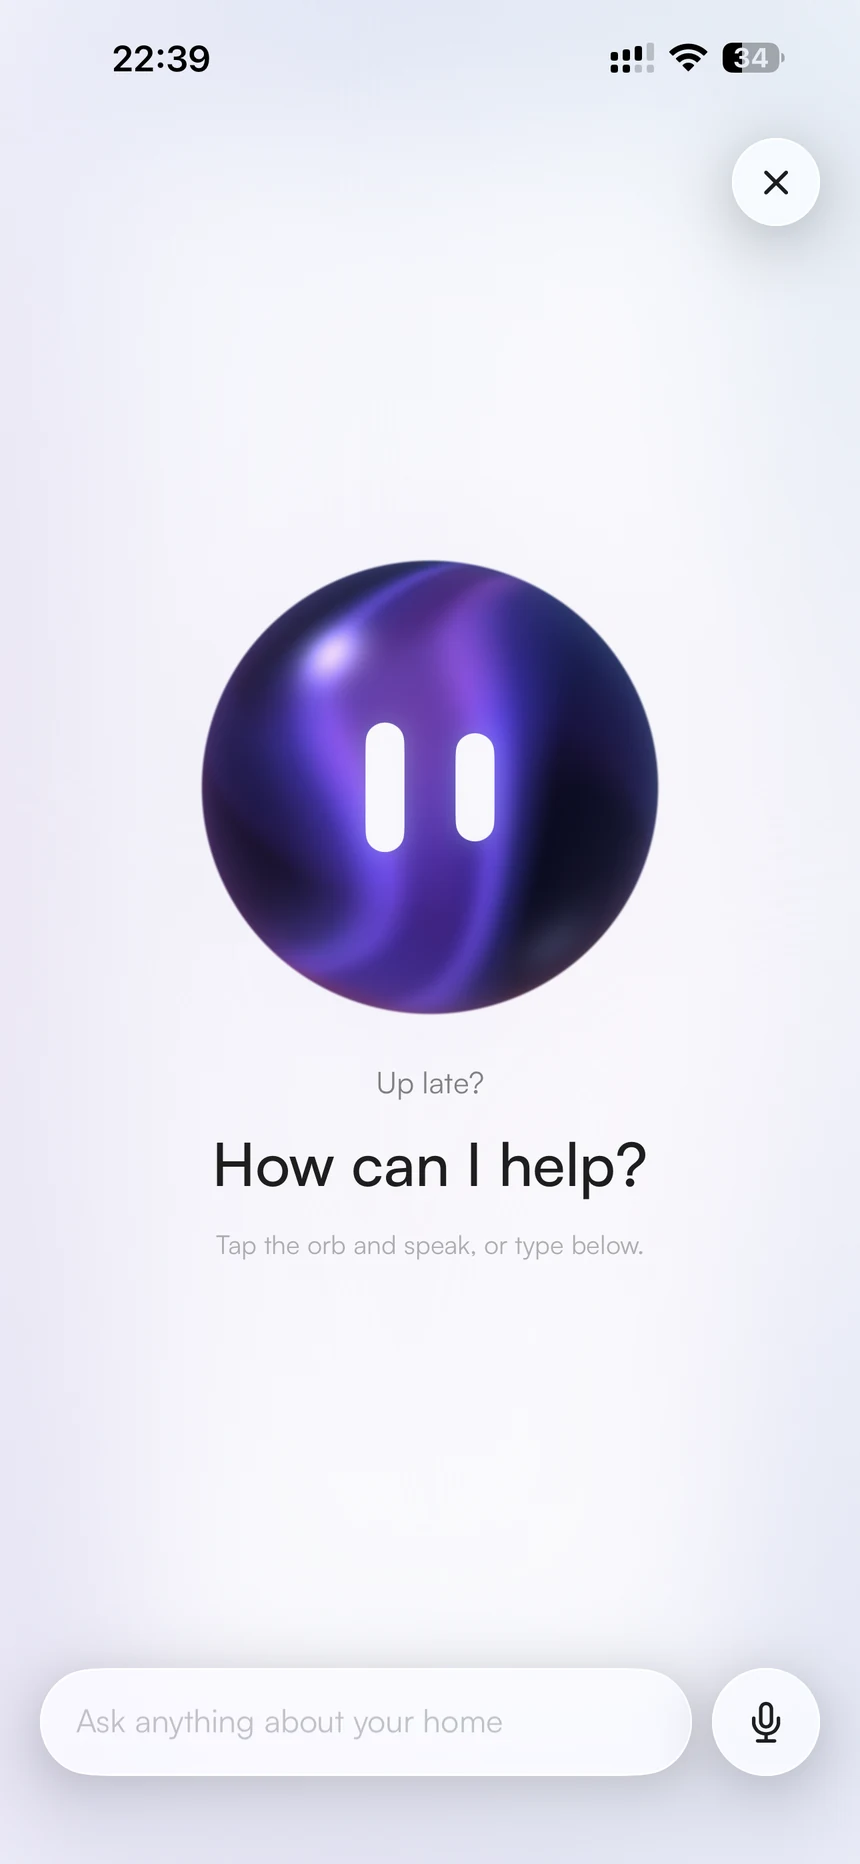
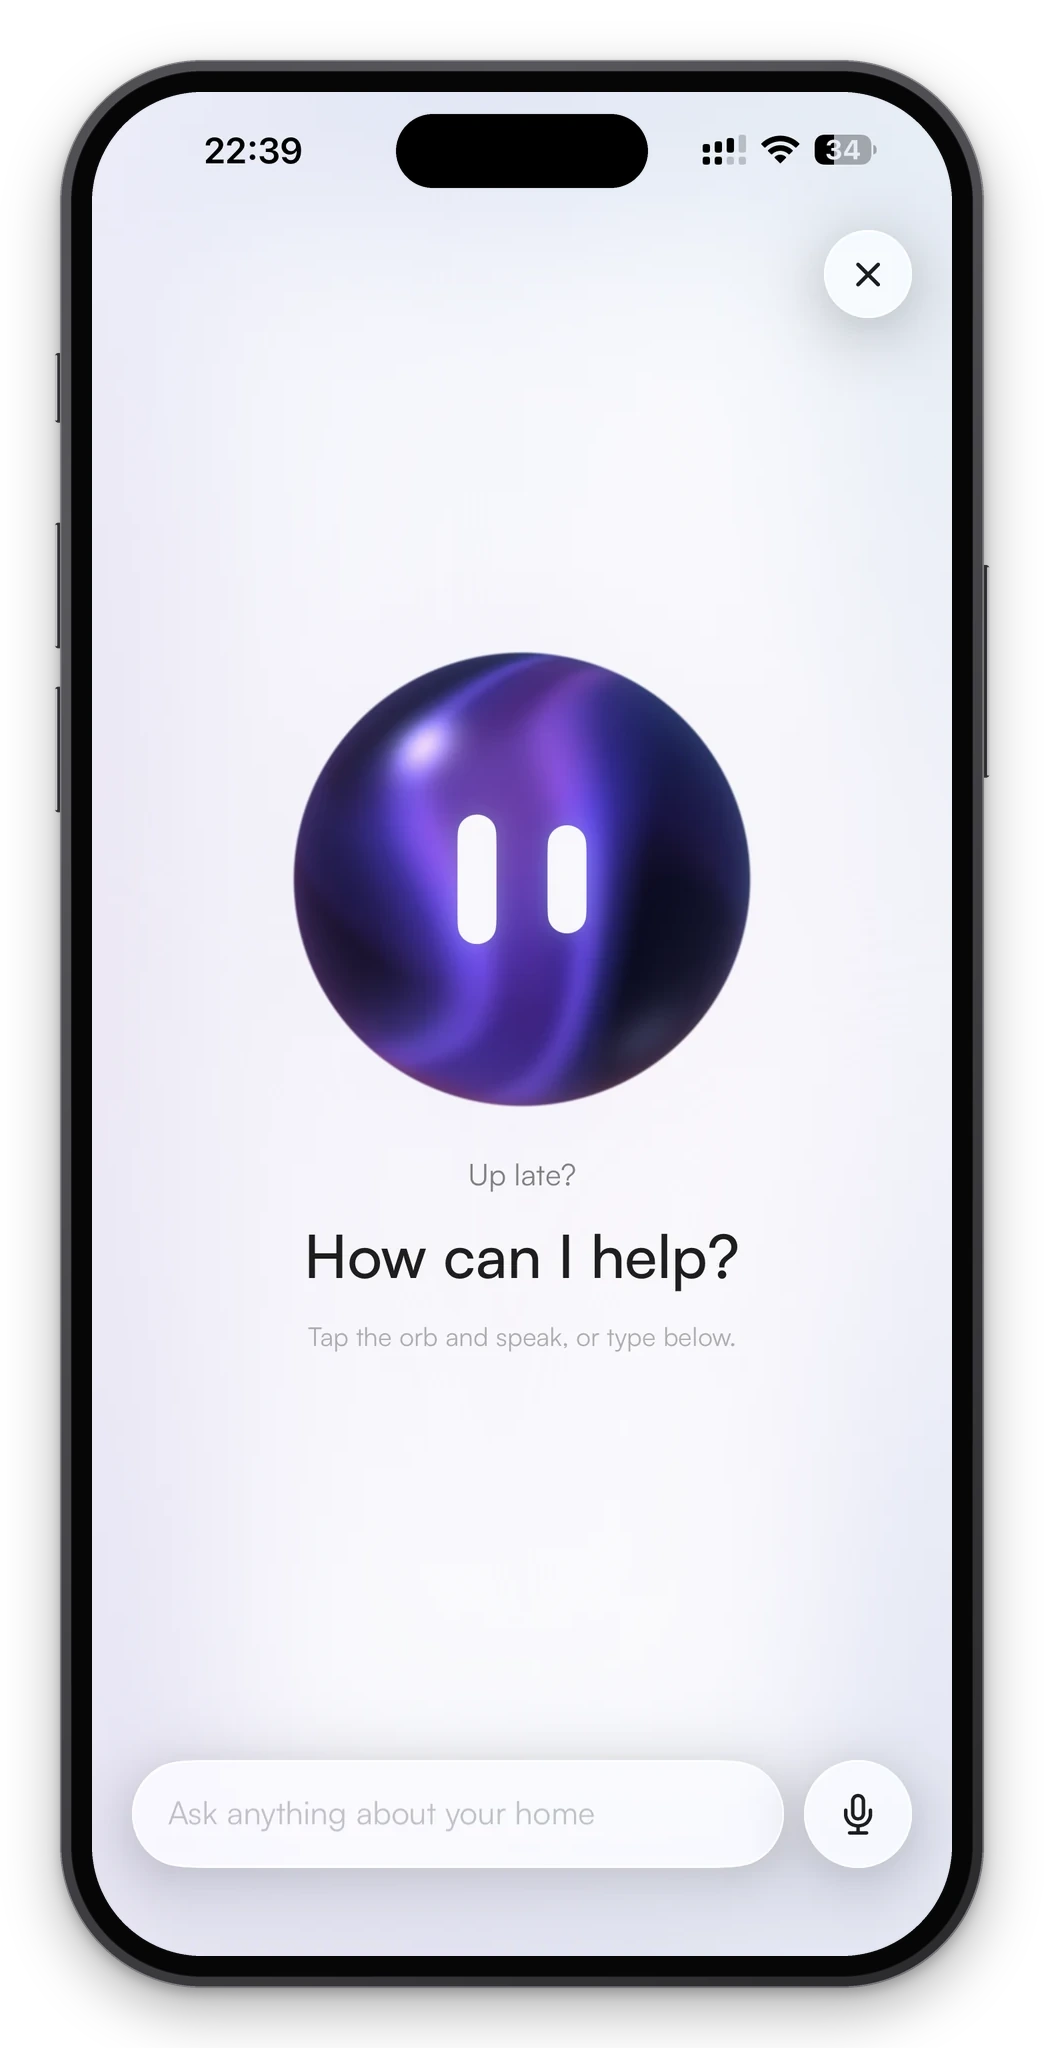
Show the README's app screens in an iPhone frame
The three screens on the front page were bare rectangles. They now sit in
a drawn iPhone frame: a dark bezel, a metal band with its side buttons, a
Dynamic Island and a soft shadow, on a transparent ground, so they read
on GitHub's light and dark themes alike. The files keep their names in
docs/assets/screens/, so the README's paths do not move.

Home also moves to the demo home the website shows since 2026-10-01,
City Apartment, with its alt text to match. The assistant and the lamp's
page are the website's captures from 2026-09-29, as before: the site has
only a dark assistant since then, and no device page.

Each capture is placed pixel for pixel - never scaled, cropped or
redrawn - and the island covers only the blank middle of the status bar,
where iOS leaves room for it. The script that makes the pictures is
marketing tooling and lives in the marketing repository; neither it nor
the bare captures are kept here.

docs/assets/README.md and CLAUDE.md forbade a device frame until now,
beside crops and drawn-in UI; the reason they gave - a screen the app
does not have - is true only of those two. Both now say what changed.
Nothing here reaches a hub: the bundle ships dist/, node_modules,
package.json, deploy/ and VERSION only.

Claude-Session: https://claude.ai/code/session_01DqxNsPFDjt28XHcGSGVi2S

Changed region(s): [[0.0, 0.0, 1.0, 1.0], [0.2116, 0.28, 0.786, 0.6845]]

diff --git a/docs/assets/README.md b/docs/assets/README.md
@@ -1,29 +1,45 @@
 # Assets
 
-The pictures the [README](../../README.md) shows. They are **copies**: the
-originals live in the gethome website, where they were already public before
-they came here.
+The pictures the [README](../../README.md) shows. Each was already public
+before it came here: the icon and the app's screens on the gethome website,
+the badge on Apple's.
 
 | File | What it is | Copied from | On |
 |---|---|---|---|
 | `mark.png` | the gethome app icon, 144 × 144 | the website's `public/icons/mark.png` | 2026-09-29 |
-| `screens/home-{light,dark}.webp` | the app's Home pane (a demo home) | the website's `public/screens/` | 2026-09-29 |
-| `screens/assistant-{light,dark}.webp` | the assistant as it opens | the website's `public/screens/` | 2026-09-29 |
-| `screens/device-{light,dark}.webp` | a lamp's device page (a demo home) | the website's `public/screens/` | 2026-09-29 |
 | `app-store-badge.svg` | Apple's "Download on the App Store" badge, black, US English | developer.apple.com, as Apple publishes it — not the website, which shows Apple's white one on its dark close | 2026-10-06 |
+| `screens/home-{light,dark}.webp` | the app's Home pane for the City Apartment demo home, in a drawn iPhone frame | the website's `public/screens/` as of 2026-10-01, framed (below) | 2026-10-16 |
+| `screens/assistant-{light,dark}.webp` | the assistant as it opens, in a drawn iPhone frame | the website's `public/screens/` as of 2026-09-29, framed | 2026-10-16 |
+| `screens/device-{light,dark}.webp` | a lamp's device page (the older Studio demo home), in a drawn iPhone frame | the same | 2026-10-16 |
 
-The copies are byte-identical to the originals (sha256 of `mark.png`
-`c7189519…`, of `screens/home-dark.webp` `583bd493…`, of `app-store-badge.svg`
-`a26fc5b3…`).
+`mark.png` and the badge are byte-identical to the originals (sha256
+`c7189519…` and `a26fc5b3…`). The framed screens are made from the website's
+captures by a script in the gethome marketing repository, which is private and
+is where the tooling for pictures like these lives; neither the script nor the
+bare captures are kept here.
 
 ## Rules
 
 - **A screen is a capture of the running app, and it stays untouched.** No
-  crop, no annotation, no device frame, no drawn-in UI. A picture of a screen
-  the app does not have is a promise the app does not keep.
+  crop, no annotation, no drawn-in UI. A picture of a screen the app does not
+  have is a promise the app does not keep.
+- **The frame goes around a capture, never into it.** The README shows each
+  screen in an iPhone frame (the owner's call, 2026-10-16). The rule this
+  replaces, written with this folder on 2026-09-29, listed a device frame beside
+  crops and drawn-in UI, but its own reason — a screen the app does not have —
+  is true only of those two: a frame changes nothing inside the capture, and it
+  is how the App Store, Product Hunt and X pictures already show the app.
+  The capture is placed pixel for pixel — never scaled, cropped or redrawn —
+  with the bezel, the band, the side buttons and the shadow drawn around it.
+  The one thing drawn over the capture is the **Dynamic Island**, because an
+  iPhone frame without one reads as a diagram: it sits on the blank middle of
+  the status bar, where iOS leaves room for it in every screenshot, and the
+  script refuses a capture with anything drawn there. The frame is plain drawn
+  shapes, not Apple's product artwork, and no Apple mark is in it.
 - **Replace, don't accumulate.** When the app's interface changes, the old
-  capture shows something the product no longer does: replace the file and the
-  date above. Git keeps the old one.
+  capture shows something the product no longer does: have the framed set made
+  again from what the website shows, and move the dates above. Never edit a
+  framed file by hand. Git keeps the old ones.
 - **The hub has no screen of its own.** These are the *app's*; the README
   captions them that way. Two are of a demo home, so nothing here should be
   described as "the hub's interface".

diff --git a/README.md b/README.md
@@ -30,15 +30,15 @@
 <p align="center">
   <picture>
     <source media="(prefers-color-scheme: dark)" srcset="docs/assets/screens/home-dark.webp">
-    <img src="docs/assets/screens/home-light.webp" width="30%" alt="The gethome app's Home pane: a pulse panel, scenes and favorite devices, with one light running.">
+    <img src="docs/assets/screens/home-light.webp" width="31%" alt="The gethome app's Home pane for a demo home, City Apartment: all calm, 22.4° inside, one light on, everything secured, with scenes and favorite devices under it.">
   </picture>
   <picture>
     <source media="(prefers-color-scheme: dark)" srcset="docs/assets/screens/assistant-dark.webp">
-    <img src="docs/assets/screens/assistant-light.webp" width="30%" alt="The gethome app's assistant: a glass orb asking “How can I help?”, with a box to type in and a microphone.">
+    <img src="docs/assets/screens/assistant-light.webp" width="31%" alt="The gethome app's assistant: a glass orb asking “How can I help?”, with a box to type in and a microphone.">
   </picture>
   <picture>
     <source media="(prefers-color-scheme: dark)" srcset="docs/assets/screens/device-dark.webp">
-    <img src="docs/assets/screens/device-light.webp" width="30%" alt="The gethome app's page for a lamp: power, brightness and color controls.">
+    <img src="docs/assets/screens/device-light.webp" width="31%" alt="The gethome app's page for a lamp: power, brightness and color controls.">
   </picture>
 </p>
 

diff --git a/CLAUDE.md b/CLAUDE.md
@@ -894,10 +894,14 @@ rules.
   *gethome for iPhone*, never *for iOS*. Studio's page on gethome.me
   (`https://gethome.me/studio/`), never its disk image, whose name changes with
   every release. Re-check the do-not-claim list in the site repo's `CLAUDE.md`
-  before a new claim about either. The three phone screens are byte-identical copies of what
-  gethome.me already shows (`docs/assets/README.md` says which and when):
-  replace them when the app's interface changes, and never crop, annotate or
-  frame one.
+  before a new claim about either. The three phone screens are captures
+  gethome.me already published (`docs/assets/README.md` says which and when),
+  shown in a drawn iPhone frame (the owner's call, 2026-10-16) from
+  `docs/assets/screens/`: make the set again when the app's interface changes,
+  never crop or annotate a capture, and never edit a framed file by hand.
+  **Only the framed pictures live here** — the script that makes them and the
+  bare captures it reads stay in the marketing and site repositories, because
+  they are marketing tooling, not the hub.
 - **Say what ships, in the brand's voice.** `gethome hub` is lowercase in every
   string a person reads — a sentence never begins with it, and the H1 is a label
   and exempt. Never "open source" (it is source-available), never "works without
